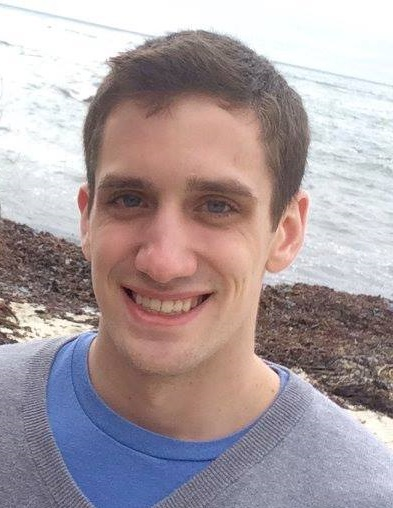
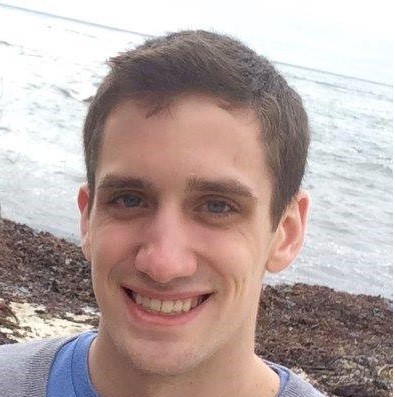
Re-stylized profile image, will need to update soon

diff --git a/css/style.css b/css/style.css
@@ -114,10 +114,10 @@ ul {
 }
 
 img.profile {
-	border-radius: 15% 15% 15% 15%;
-	width: 15%;
-  height: auto;
-	border: solid black;
+	border-radius: 50%;
+	height: 20vw;
+	width: 20vw;
+	border: 2px solid black;
 }
 
 .pager {
